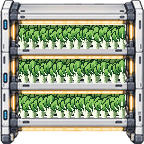
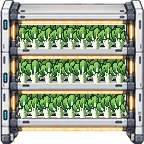
青江菜栽種架拆成左端、可重複中段、右端三段，供長排拼接
植株以 48 px 為週期排列，任意段數拼接皆無縫；附產生腳本與底圖。

Claude-Session: https://claude.ai/code/session_01MBw9tnYsxbvVQxtpu7zj1s

diff --git a/tools/art/greenhouse_rack_bokchoy.py b/tools/art/greenhouse_rack_bokchoy.py
@@ -1,0 +1,101 @@
+"""青江菜栽種架：左端柱 / 中段（可無限重複）/ 右端柱，各 48×144。
+植株排列以 48 px 為週期，所以任意段數接起來都無縫。"""
+import numpy as np, random, math
+from PIL import Image
+from collections import deque
+from pathlib import Path
+OUT_DIR = Path(__file__).resolve().parents[2] / 'public/assets/greenhouse'
+SEG = 48
+src = np.array(Image.open(Path(__file__).with_name('greenhouse_rack_base.png')).convert('RGB')).astype(np.int32)
+H = src.shape[0]
+alpha0 = np.full(src.shape[:2], 255, np.uint8)
+near = src.min(axis=2) >= 244
+seen = np.zeros(src.shape[:2], bool)
+q = deque([(y, x) for x in range(144) for y in (0, H - 1)] + [(y, x) for y in range(H) for x in (0, 143)])
+while q:
+    y, x = q.popleft()
+    if not (0 <= y < H and 0 <= x < 144) or seen[y, x] or not near[y, x]: continue
+    seen[y, x] = True; alpha0[y, x] = 0
+    q.extend([(y+1, x), (y-1, x), (y, x+1), (y, x-1)])
+
+# 中段每一橫列要嘛全透明、要嘛全不透明，避免重複時出現規律的缺口
+for y in range(H):
+    seg = alpha0[y, 48:96]
+    if 0 < (seg == 0).sum() < 24:
+        for x in range(48, 96):
+            if alpha0[y, x] == 0: alpha0[y, x] = 255; src[y, x] = src[y, x - 1]
+N_MID = 26 - 2                      # 一排 13 格地圖 = 26 段
+cols = list(range(0, 48)) + list(range(48, 96)) * N_MID + list(range(96, 144))
+out = src[:, cols].copy(); alpha = alpha0[:, cols].copy()
+W = out.shape[1]
+tiers = [(25, 46), (59, 80), (94, 115)]
+X0, X1 = 19, W - 20
+GAP = (20, 36, 26)
+STEM = [(120, 146, 104), (184, 206, 158), (226, 238, 206), (246, 250, 234)]
+LEAF = [(22, 58, 34), (40, 92, 48), (62, 128, 58), (96, 164, 74), (150, 204, 104)]
+
+def put(y, x, c, top, bottom):
+    if top <= y <= bottom and X0 <= x <= X1:
+        out[y, x] = c; alpha[y, x] = 255
+
+def plant(bx, by, s, top, bottom, rnd, dim=1.0):
+    pal_l = [tuple(int(v * dim) for v in c) for c in LEAF]
+    pal_s = [tuple(int(v * dim) for v in c) for c in STEM]
+    n = 5
+    angs = sorted([-90 + (i - (n - 1) / 2) * 16 + rnd.uniform(-5, 5) for i in range(n)], key=lambda t: -abs(t + 90))
+    for t in angs:
+        th = math.radians(t); ux, uy = math.cos(th), math.sin(th)
+        spread = abs(t + 90) / 32
+        Ls = s * (0.42 - 0.08 * spread); Lb = s * (0.62 - 0.1 * spread); Wb = s * 0.2
+        mx, my = bx + ux * (Ls + Lb * .5), by + uy * (Ls + Lb * .5)
+        for y in range(int(my - Lb), int(my + Lb) + 1):
+            for x in range(int(mx - Lb), int(mx + Lb) + 1):
+                dx, dy = x + .5 - mx, y + .5 - my
+                u = (dx * ux + dy * uy) / (Lb * .5); v = (-dx * uy + dy * ux) / Wb
+                d = u * u + v * v
+                if d > 1: continue
+                lit = -(dx * .7 + dy * .7) / Wb
+                if d > .7: c = pal_l[0]
+                elif abs(v) < .2 and u < .6: c = pal_s[2] if u < -.2 else pal_l[4]
+                elif lit > .5: c = pal_l[4]
+                elif lit > 0: c = pal_l[3]
+                elif lit > -.6: c = pal_l[2]
+                else: c = pal_l[1]
+                put(y, x, c, top, bottom)
+        steps = int(Ls * 2) + 2
+        for k in range(steps + 1):
+            f = k / steps
+            px, py = bx + ux * Ls * f, by + uy * Ls * f
+            half = 1.6 * (1 - f) + 0.7
+            for o in np.arange(-half, half + .01, .5):
+                x = int(px + (-uy) * o); y = int(py + ux * o)
+                edge = abs(o) > half - .6
+                c = pal_s[0] if edge and o > 0 else pal_s[1] if o > 0.3 else pal_s[3] if o < -.3 else pal_s[2]
+                put(y, x, c, top, bottom)
+
+STEP = 12                             # 每段 4 株，週期 48
+for ti, (top, lip) in enumerate(tiers):
+    out[top:lip + 1, X0:X1 + 1] = GAP; alpha[top:lip + 1, X0:X1 + 1] = 255
+    for row, (off, by, size, dim, bot) in enumerate([(6, lip - 2, 24, .72, lip), (0, lip + 2, 21, 1.0, lip + 2)]):
+        for x in range(off - SEG, W + SEG, STEP):
+            k = (x // STEP) % (SEG // STEP)   # 同一週期位置 → 同一株的長相
+            rnd = random.Random(ti * 100 + row * 10 + k)
+            jx = rnd.uniform(-1, 1); js = rnd.uniform(-2, 1.5)
+            plant(x + jx, by, size + js, top, bot, rnd, dim)
+
+rgba = np.dstack([np.clip(out, 0, 255).astype(np.uint8), alpha])
+A = rgba.copy()
+for y in range(1, H - 1):
+    for x in range(1, W - 1):
+        if A[y, x, 3] and (A[y-1:y+2, x-1:x+2, 3] > 0).sum() <= 2: A[y, x, 3] = 0
+row = Image.fromarray(A, 'RGBA')
+mid_at = SEG * (1 + N_MID // 2)
+row.crop((0, 0, SEG, H)).save(OUT_DIR / 'farm_rack_bokchoy_left.png')
+row.crop((mid_at, 0, mid_at + SEG, H)).save(OUT_DIR / 'farm_rack_bokchoy_mid.png')
+row.crop((W - SEG, 0, W, H)).save(OUT_DIR / 'farm_rack_bokchoy_right.png')
+
+# 驗證：用三段重新拼一排，應與整排渲染逐像素相同
+L, M, R = (np.array(Image.open(OUT_DIR / f'farm_rack_bokchoy_{n}.png')) for n in ('left', 'mid', 'right'))
+re = np.concatenate([L] + [M] * N_MID + [R], axis=1)
+print('seamless:', np.array_equal(re[:, SEG:W - SEG], A[:, SEG:W - SEG]), 'ends:', np.array_equal(re, A))
+Image.fromarray(np.concatenate([L, M, R], axis=1)).save(OUT_DIR / 'farm_rack_bokchoy.png')
